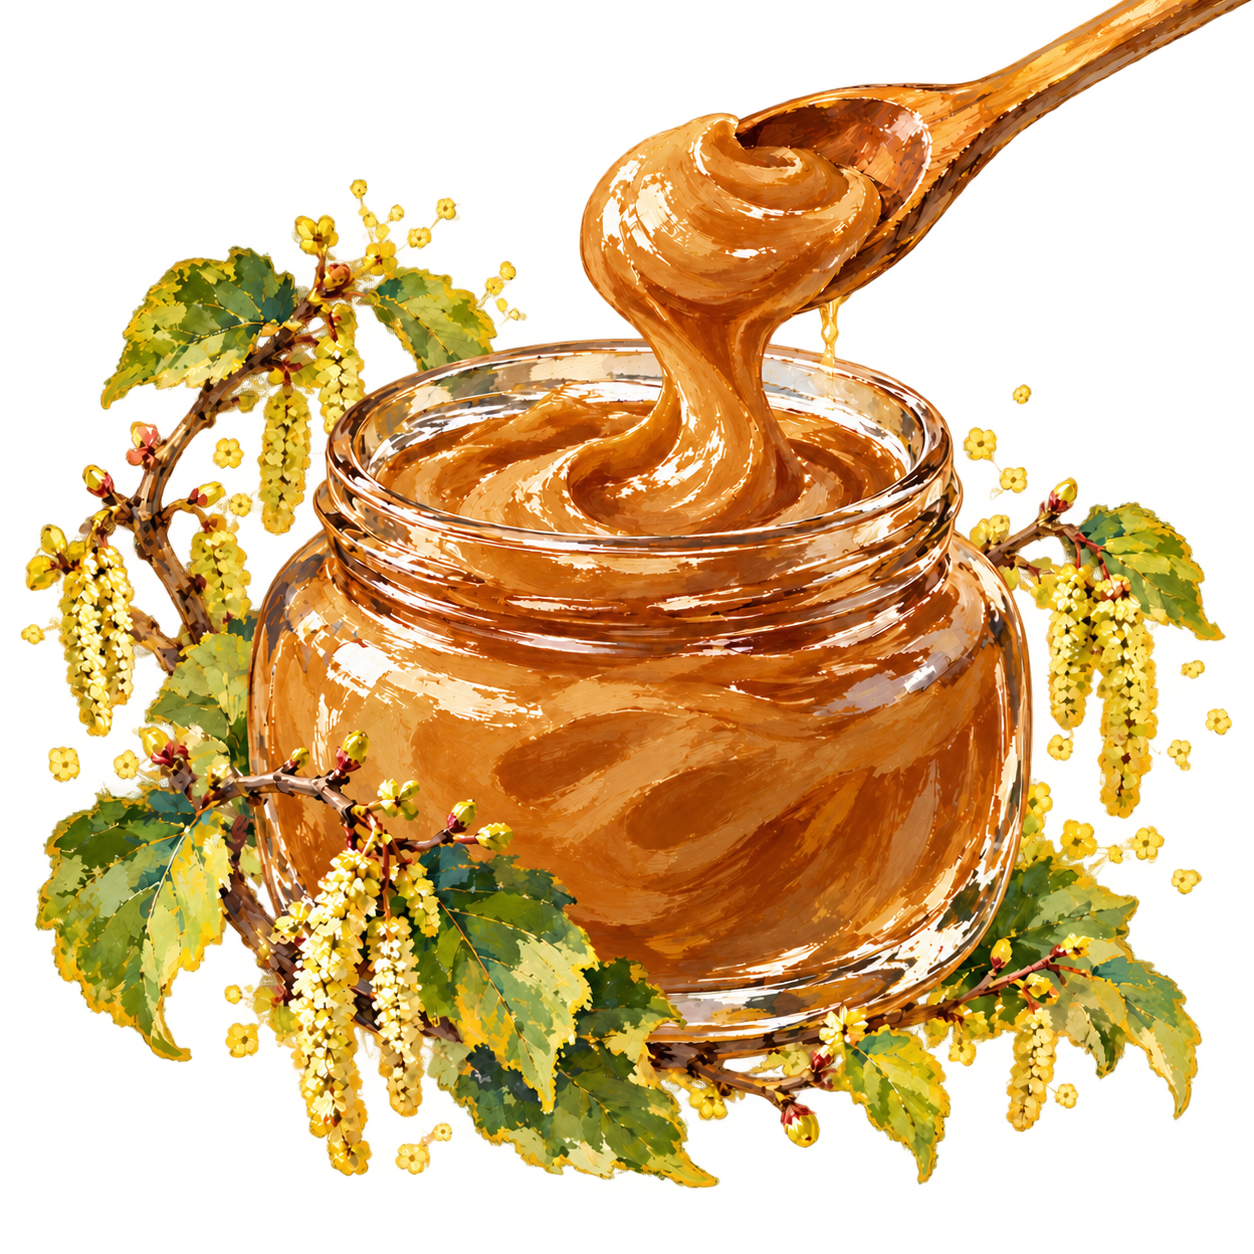
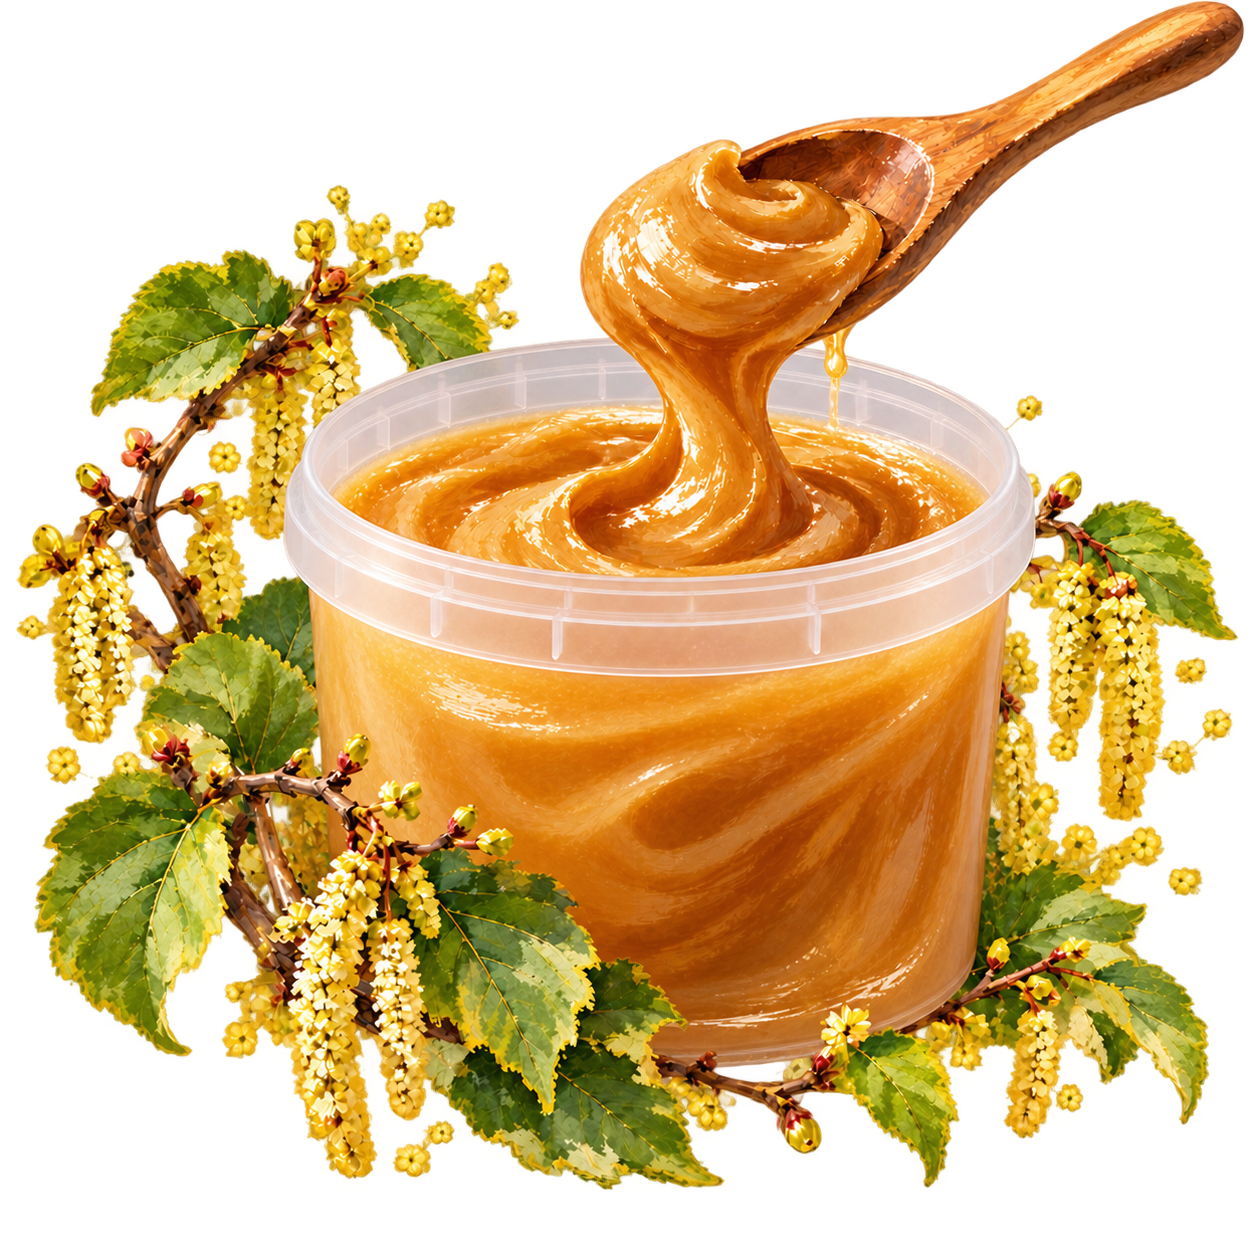
feat: reemplazar frascos por potes plasticos de miel de 1 kg

diff --git a/design/art-originals/POTES_PLASTICOS_1KG.md b/design/art-originals/POTES_PLASTICOS_1KG.md
@@ -1,0 +1,21 @@
+# Potes plásticos de 1 kg
+
+Actualización del 18 de octubre de 2026 mediante la herramienta integrada `image_gen`, en modo edición y con `transparent_background: true`.
+
+Archivos finales: `public/art/miel-multifloral.png`, `public/art/miel-cerezo.png` y `public/art/miel-avellana.png`. PNG RGBA de 1254 × 1254, con transparencia real. Se mantienen las rutas compartidas por portada, catálogo, vistas rápidas y fichas. Las imágenes anteriores están conservadas en el historial de Git.
+
+Son representaciones generadas de los productos, no fotografías documentales del envase comercial. Se mantienen las flores, las cucharas y los colores de la colección; se sustituyen los frascos de vidrio por potes plásticos abiertos. Cerezo conserva el blanco crema y avellana el tono caramelo.
+
+## Prompts finales
+
+### Multifloral
+
+Use case: precise-object-edit. Edit target: the attached transparent multifloral honey composition. Replace the GLASS JAR with a realistic food-grade translucent polypropylene PLASTIC TUB for 1 kilogram of honey, open, broad round opening, slightly tapered cylindrical sides, thin molded snap-fit rim, subtle frosted plastic wall, no screw threads, no glass shoulder or thick glass base. Preserve the overall centered square composition: one tub, wooden spoon pointing diagonally up-right, surrounding small purple yellow white wildflowers and green foliage. Convert the rendering to highly photorealistic premium product photography with believable natural materials, soft studio lighting and sharp detailed honey texture. Multifloral honey is warm golden ochre, firm finely crystallized honey with a solid scoop on the wooden spoon, not giant sugar crystals. Tub filled generously. Keep full spoon and all botanical details inside canvas with small clear margins, subject occupies about 88 percent of square. One single standalone product cutout. GENUINELY TRANSPARENT alpha background including holes between flowers, no ground plane, no scenery, no painted checkerboard, no backdrop, no text, no label, no logo, no watermark. Keep the same charming botanical honey idea and warm palette while making the container unmistakably a 1 kg plastic food tub.
+
+### Cerezo
+
+Use case: precise-object-edit. Image 1 is the EDIT TARGET cherry blossom honey composition. Image 2 is a supporting reference for the EXACT PLASTIC TUB shape, scale and realism required across this product collection, NOT its honey color or flowers. Replace the glass jar in image 1 with the same realistic food-grade translucent polypropylene 1 kilogram honey tub as image 2: open broad round opening, slightly tapered sides, thin molded snap-fit rim, frosted translucent plastic wall, no glass screw threads or glass base. Preserve image 1's pale ivory-white creamed honey, delicate pink cherry blossoms around the base, wooden spoon extending diagonally up-right. Make it premium highly photorealistic product imagery with believable natural textures and soft studio lighting. Emphasize thick creamy white cherry honey: velvety smooth folds, gentle satin highlights, soft swirls across the open surface and a rich slow ribbon of creamy honey curling from the spoon into the tub. Honey is dense creamed honey, not liquid amber honey, not ice cream, not jam. No cherries. Container generously filled. Square standalone cutout composition, entire spoon and botanical arrangement fully inside canvas with a small transparent margin. Genuine alpha transparent background including gaps among branches; no scenery, ground plane, backdrop, painted checkerboard, text, labels, logos or watermark. Consistent scale and viewpoint with reference 2, keep the botanical idea of reference 1.
+
+### Avellana
+
+Use case: precise-object-edit. Image 1 is the EDIT TARGET hazel honey botanical composition. Images 2 and 3 are supporting references for matching the SAME 1 kg PLASTIC TUB and photographic realism across the collection. Replace image 1's glass jar with a realistic open food-grade translucent polypropylene plastic tub for one kilogram of honey: broad round opening, slightly tapered sides, thin molded snap-fit rim and frosted translucent wall, matching the shape and proportions of refs 2 and 3. No screw threads, glass shoulders or thick glass base. Preserve the warm deep golden caramel honey color of image 1 and the surrounding green hazel leaves, yellow catkins, and wooden spoon pointing diagonally up-right. Render as premium highly photorealistic product imagery with believable natural materials and soft studio light. Emphasize the rich CREMOSITY of hazel honey: dense velvety caramel-gold creamed honey, fine smooth satiny texture, luscious sculpted folds across the open tub and a thick soft ribbon stretching and curling from the spoon, warm honey highlights. Not chocolate, not nut butter, no nuts or nut pieces in honey. Keep the botanical arrangement and honey concept. Square standalone cutout, full spoon and all foliage inside the canvas, small transparent margins, same approximate scale and viewpoint as other tubs. GENUINE TRANSPARENT alpha background including gaps between foliage. No scenery, no floor plane, no background color, no painted checkerboard, no text, no label, no logos, no watermark.

diff --git a/design/art-originals/README.md b/design/art-originals/README.md
@@ -1,5 +1,7 @@
 # Ilustraciones provisionales de miel
 
+Versión vigente: [potes plásticos de 1 kg, referencias y prompts](./POTES_PLASTICOS_1KG.md). La documentación siguiente describe las ilustraciones anteriores con frascos de vidrio.
+
 Colores actuales: cerezo blanco cremoso y avellana caramelo oscuro. Véanse [referencias, copias anteriores y prompts del ajuste](./AJUSTE_COLOR_MIELES.md).
 
 Generadas con imagegen, usando el jardín existente como referencia de estilo. No son fotografías del producto real.
